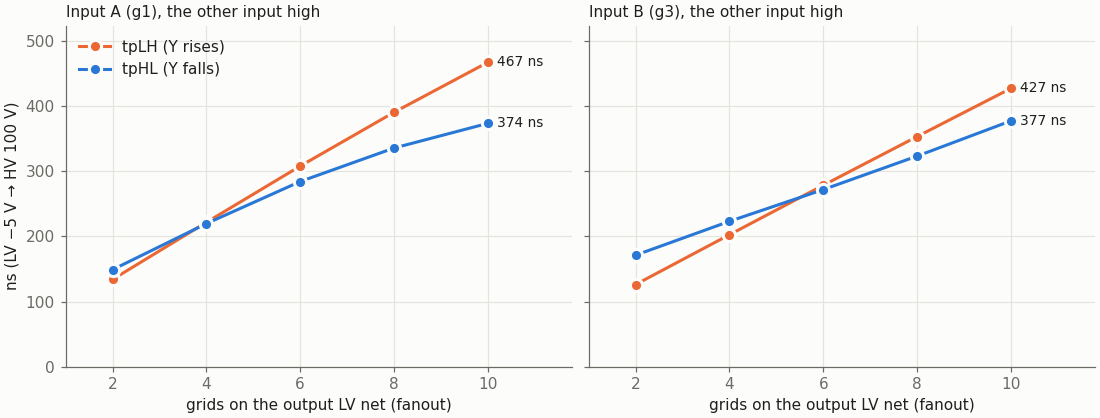
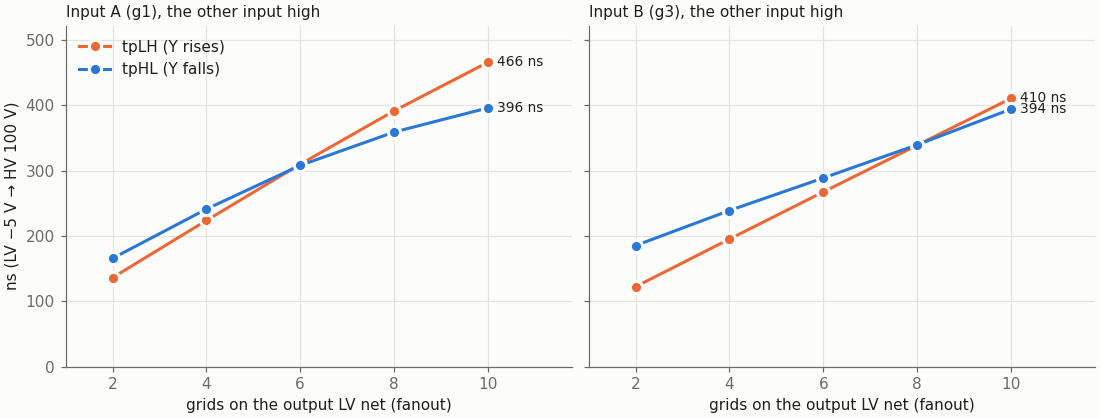
6Zh2B Cg3a = 1.8 pF measured: NAND2_J2 re-simulated, TRS v0.14 (REQ-MOD-004)
- Owner measured 1.8 pF anode to g3 on a 6Zh2B-V; model nominal was the
  6AS6 value 1.6 pF.
- Cell and divider values unchanged: C1 6.8 pF per g3 grid and Cb 15 pF
  are again the best pair. Fanout 2..10: tpHL 166..396 ns, tpLH
  122..466 ns; KiCad matches the sweep to 1 %.
- Page tables, figures, sensitivity (1.6/2.0/2.5 pF) and datasheet page
  updated.

diff --git a/tools/kicad/gen_nand2_j2.py b/tools/kicad/gen_nand2_j2.py
@@ -215,7 +215,7 @@ cell.text("NAND2_J2: Y = ~(A & B). One 6Zh2B (6Ж2Б), dual-control pentode: A o
           "Inputs A, B: LV level (1 = +10 V, 0 = -20 V). Output Y: HV level on the plate (1 = +150 V, 0 = +50 V).\n"
           "Ra 15k, screen Rg2 15k from +150 V (Ug2 <= 96 V while conducting, 150 V cut off),\n"
           "Cb 15 pF holds g3 against the plate fall through Cg3a (Miller kick while B is high).\n"
-          "Simulated: Y = 145 V (1), 44...56 V (0); Ik <= 12.6 mA, Pg2 0.37 W; fanout 2/10: tpHL 171/377 ns, tpLH 134/467 ns.\n"
+          "Simulated: Y = 145 V (1), 44...56 V (0); Ik <= 12.6 mA, Pg2 0.37 W; fanout 2/10: tpHL 185/396 ns, tpLH 136/466 ns (Cg3a 1.8 pF, measured).\n"
           "Each HV net that drives grids needs one divider HV -> LV: 470k || C1 from the net to the LV net, 200k to -50 V,\n"
           "C1 = 3.9 pF per g1 grid + 6.8 pF per g3 grid on that net (see NAND2_J2_tb). Inputs only from such a divider.\n"
           "Unused input: tie it to the other input. Supplies: +150 V, -50 V (dividers only), heater 6.3 V 0.2 A on H1/H2.\n"

diff --git a/tools/spice/fit_6zh2b.py b/tools/spice/fit_6zh2b.py
@@ -76,11 +76,11 @@ SUB = """*----------------------------------------------------------------------
 * Assumptions (not on the sheets): the Ug2 dependence (only Ug2 = 120 V is
 * given; MU2 rests on the power-law fit, no contact potential); grid current
 * of g1 and g3 (diodes, RG1/RG3); the split of Cin/Cout and the g3
-* capacitances (CG3A from the 6AS6, the US dual-control pentode; CG3K, CG2K).
+* capacitances (CG3K, CG2K). CG3A = 1.8 pF measured by the owner on a 6Zh2B-V (2026-10-24).
 *--------------------------------------------------------------------------
 .SUBCKT 6Zh2B A G3 G2 K G1
 + PARAMS: {params}
-+ S0=0.3 S3=0.3 CG1K=3.0P CG1G2=1.9P CG1A=0.03P CG3A=1.6P CG3K=3.0P CAK=2.5P CG2K=2.0P
++ S0=0.3 S3=0.3 CG1K=3.0P CG1G2=1.9P CG1A=0.03P CG3A=1.8P CG3K=3.0P CAK=2.5P CG2K=2.0P
 + RG1=2000 RG3=5000
 BX  x  0 V={{V(G1,K) + V(G2,K)/MU2 + V(G3,K)/MU3 + V(A,K)/MUA}}
 RX  x  0 1G

diff --git a/doc/nand2_j2_6zh2b.md b/doc/nand2_j2_6zh2b.md
@@ -12,11 +12,12 @@ Cell page. REQ-MOD-005 (2И-НЕ board), REQ-MOD-012 (logic levels), REQ-MOD-004
 | Supplies | +150 V (plate through Ra, screen through Rg2); −50 V (dividers only); heater 6.3 V, 0.2 A |
 | Parts | Ra 15 kΩ, Rg2 15 kΩ, Cb 15 pF; per driven LV net a divider 470 kΩ ‖ C1 / 200 kΩ, C1 = 3.9 pF per g1 grid + 6.8 pF per g3 grid |
 | Output levels | Y = 145 V (1); 44 V (0), 38…52 V over MU2 ± 20 % |
-| Delay, fanout 2 … 10 | tpHL 149 … 377 ns, tpLH 126 … 467 ns (both inputs, see Fanout) |
-| Grid, worst transient | −26.5 V (limit −50 V) |
+| Delay, fanout 2 … 10 | tpHL 166 … 396 ns, tpLH 122 … 466 ns (both inputs, see Fanout) |
+| Grid, worst transient | −26.0 V (limit −50 V) |
+| Cg3a | 1.8 pF, measured by the owner on a 6Ж2Б-В |
 | Ik, Pa, Pg2, worst static | 12.6 mA, 0.33 W, 0.37 W (limits 14 mA, 0.9 W, 0.6 W) |
 
-The owner confirmed on 2026-10-24: A on g1, B on g3, both LV (+10 / −20 V), output HV (+150 / +50 V), one 6Zh2B, supplies +150 / −50 V, the screen fed through a dropping resistor Rg2 from +150 V (no new rail); and, after the first sweep, passive compensation of the g3 Miller effect (Cb in the cell, larger C1 for g3 grids) instead of a cathode follower.
+The owner confirmed on 2026-10-24: A on g1, B on g3, both LV (+10 / −20 V), output HV (+150 / +50 V), one 6Zh2B, supplies +150 / −50 V, the screen fed through a dropping resistor Rg2 from +150 V (no new rail); and, after the first sweep, passive compensation of the g3 Miller effect (Cb in the cell, larger C1 for g3 grids) instead of a cathode follower. The owner then measured Cg3a = 1.8 pF on a 6Ж2Б-В (2026-10-24); all figures on this page use that value.
 
 ## Logic levels
 
@@ -69,7 +70,7 @@ VOL ≈ 50 V needs Ia ≈ 100 V / Ra. With Ra = 10k that is 10 mA of plate curre
 
 This is the trap specific to an AND-type cell. In NOR2_N16, an input held at "1" means the output is already low, so no other input can make a large plate swing while a grid sits clamped at "1". In this NAND it is the normal case: B holds g3 at "1", and A switches the tube on. The plate falls by 95 V and pulls g3 down through Cg3a. The divider (140 kΩ) can supply only about 0.07 mA to restore g3, and g3 out of its clamp cuts the plate current, so the plate falls as a Miller integrator at about 0.07 mA / Cg3a ≈ 40 V/µs.
 
-Without compensation (C1 = 3.9 pF per grid on every net, no Cb) the A↑ → Y↓ arc takes 480 ns at fanout 2 with Cg3a = 1.6 pF and 890 ns with 2.5 pF, whatever the fanout. g1 has no such problem: Cg1a ≤ 0.03 pF.
+Without compensation (C1 = 3.9 pF per grid on every net, no Cb) the A↑ → Y↓ arc takes 577 ns at fanout 2 and 670 ns at fanout 10 with the measured Cg3a = 1.8 pF (890 ns with 2.5 pF): it hardly depends on the fanout. g1 has no such problem: Cg1a ≤ 0.03 pF.
 
 The fix holds g3 with capacitance:
 
@@ -80,30 +81,31 @@ Bounds at fanout 4 (`tools/spice/nand2_sweep.py`; VOL is the worst value 2 µs a
 
 | C1 per g3 grid (Cb 15 pF) | Lowest grid | VOL after 2 µs | tpHL A / B | tpLH A / B | Verdict |
 |---|---|---|---|---|---|
-| 3.9 pF | −23.5 V | 86 V | 196 / 1009 ns | 73 / 170 ns | under-compensated, B crawls |
-| 4.7 pF | −24.0 V | 71 V | 202 / 566 ns | 129 / 180 ns | under-compensated |
-| 5.6 pF | −25.0 V | 55 V | 210 / 309 ns | 183 / 191 ns | works, near the cliff above |
-| **6.8 pF** | **−26.3 V** | **54 V** | **220 / 223 ns** | **222 / 203 ns** | **chosen** |
-| 8.2 pF | −29.5 V | 54 V | 229 / 190 ns | 237 / 216 ns | slower rise |
-| 10 pF | −33.0 V | 54 V | 239 / 175 ns | 255 / 234 ns | slower rise |
-| 12 pF | −36.7 V | 54 V | 248 / 168 ns | 275 / 252 ns | slower rise, deeper kick |
+| 3.9 pF | −23.3 V | 90 V | 219 / 1087 ns | 57 / 164 ns | under-compensated, B crawls |
+| 4.7 pF | −23.7 V | 76 V | 224 / 670 ns | 116 / 173 ns | under-compensated |
+| 5.6 pF | −24.5 V | 60 V | 232 / 344 ns | 172 / 183 ns | B still slow |
+| **6.8 pF** | **−25.9 V** | **58 V** | **241 / 239 ns** | **224 / 195 ns** | **chosen**: arcs balanced |
+| 8.2 pF | −28.4 V | 58 V | 250 / 200 ns | 240 / 208 ns | slower rise |
+| 10 pF | −31.9 V | 58 V | 259 / 182 ns | 258 / 225 ns | slower rise |
+| 12 pF | −36.0 V | 57 V | 268 / 174 ns | 278 / 243 ns | slower rise, deeper kick |
 
 | Cb (C1 6.8 pF per g3 grid) | Lowest grid | VOL after 2 µs | tpHL A / B | tpLH A / B | Verdict |
 |---|---|---|---|---|---|
-| none | −59.7 V | 55 V | 431 / 92 ns | 169 / 159 ns | g3 below −50 V; slow A arc |
-| 6.8 pF | −34.5 V | 55 V | 281 / 136 ns | 199 / 184 ns | — |
-| 10 pF | −29.8 V | 55 V | 247 / 162 ns | 210 / 192 ns | — |
-| **15 pF** | **−26.3 V** | **54 V** | **220 / 223 ns** | **222 / 203 ns** | **chosen**: arcs balanced |
-| 22 pF | −24.4 V | 67 V | 202 / 432 ns | 166 / 213 ns | over-loads g3, B slow |
+| none | −57.4 V | 60 V | 513 / 98 ns | 175 / 152 ns | g3 below −50 V; slow A arc |
+| 6.8 pF | −33.7 V | 59 V | 329 / 144 ns | 204 / 177 ns | — |
+| 10 pF | −28.8 V | 59 V | 281 / 171 ns | 214 / 185 ns | — |
+| **15 pF** | **−25.9 V** | **58 V** | **241 / 239 ns** | **224 / 195 ns** | **chosen**: arcs balanced |
+| 18 pF | −25.1 V | 58 V | 228 / 307 ns | 205 / 201 ns | B slower |
+| 22 pF | −24.0 V | 71 V | 216 / 481 ns | 153 / 206 ns | over-loads g3, B slow |
 
 | C1 per g1 grid | Lowest grid | tpHL A / B | tpLH A / B |
 |---|---|---|---|
-| 2.7 pF | −21.3 V | 274 / 215 ns | 208 / 191 ns |
-| 3.3 pF | −22.3 V | 236 / 219 ns | 215 / 197 ns |
-| **3.9 pF** (as in NOR2_N16) | **−26.3 V** | **220 / 223 ns** | **222 / 203 ns** |
-| 4.7 pF | −32.5 V | 210 / 228 ns | 230 / 210 ns |
+| 2.7 pF | −21.3 V | 300 / 230 ns | 211 / 184 ns |
+| 3.3 pF | −22.3 V | 258 / 234 ns | 217 / 190 ns |
+| **3.9 pF** (as in NOR2_N16) | **−25.9 V** | **241 / 239 ns** | **224 / 195 ns** |
+| 4.7 pF | −31.7 V | 231 / 244 ns | 231 / 201 ns |
 
-The g1 grid keeps the NOR rule of 3.9 pF per grid, so a net that drives NOR and NAND g1 inputs uses one rule. A larger search over Ra (12–18k), Rg2 (10–18k), C1 and Cb (192 combinations, fanout 4 and 6, Cg3a 1.6 and 2.5 pF) found nothing more than about 15 % faster within the limits.
+The g1 grid keeps the NOR rule of 3.9 pF per grid, so a net that drives NOR and NAND g1 inputs uses one rule. A larger search over Ra (12–18k), Rg2 (10–18k), C1 and Cb (192 combinations, fanout 4 and 6, Cg3a 1.6 and 2.5 pF, before the measurement) found nothing more than about 15 % faster within the limits; with the measured 1.8 pF the chosen pair is again the best of C1 5.6–8.2 pF × Cb 10–22 pF at fanout 4 and 10.
 
 ### The HV → LV divider
 
@@ -133,22 +135,22 @@ A g3 input therefore costs 1.7 times the divider capacitance of a g1 input. For 
 | .meas | KiCad | Plain SPICE (`nand2_sweep.py --kicad`) |
 |---|---|---|
 | Y, states 00 / 10 | 145.4 / 145.4 V | 145.4 / 145.4 V |
-| Y, state 11 after B↑ (y2) | 48.0 V | 48.0 V |
-| Y, state 11 after A↑ (y5), 2 µs after the edge | 58.1 V | 58.1 V |
-| Y, state 01 after A↓ (y3) | 138.9 V | 139.1 V |
-| tphl_b (B↑, A high) | 377 ns | 377 ns |
-| tplh_a (A↓, B high) | 468 ns | 467 ns |
-| tphl_a (A↑, B high) | 425 ns | 425 ns |
-| tplh_b (B↓, A high) | 415 ns | 413 ns |
-| lowest IN_A / IN_B / OUT_LV | −26.5 / −22.0 / −21.5 V | −26.5 / −22.0 / −21.5 V |
+| Y, state 11 after B↑ (y2) | 49.5 V | 49.5 V |
+| Y, state 11 after A↑ (y5), 2 µs after the edge | 61.9 V | 61.9 V |
+| Y, state 01 after A↓ (y3) | 138.8 V | 138.9 V |
+| tphl_b (B↑, A high) | 394 ns | 394 ns |
+| tplh_a (A↓, B high) | 467 ns | 466 ns |
+| tphl_a (A↑, B high) | 456 ns | 456 ns |
+| tplh_b (B↓, A high) | 396 ns | 393 ns |
+| lowest IN_A / IN_B / OUT_LV | −26.0 / −21.4 / −20.5 V | −26.0 / −21.5 / −20.4 V |
 
-The KiCad netlist and the sweep agree to 0.5 %.
+The KiCad netlist and the sweep agree to 1 %.
 
 ![waveforms](img/nand2_j2_tran.png)
 
 What the waveforms show:
 
-- **At 10 µs (01 → 11, A rises while B is high):** IN_B dips by about 1.5 V as the plate falls (the Miller kick that Cb absorbs), and OUT falls fast to about 90 V and then slowly. It crosses 100 V after 425 ns but is still at 58 V after 2 µs. The next stage sees it as a solid "0" once it is below its VIL of 91 V.
+- **At 10 µs (01 → 11, A rises while B is high):** IN_B dips by about 1.5 V as the plate falls (the Miller kick that Cb absorbs), and OUT falls fast to about 90 V and then slowly. It crosses 100 V after 456 ns but is still at 62 V after 2 µs. The next stage sees it as a solid "0" once it is below its VIL of 91 V.
 - **At 4 µs (10 → 11, B rises):** the fall is faster; g3 is the moving grid and C1 of its divider supplies the charge.
 - **Rising edges** are RC edges of Ra and the output net: 0.47 µs to 100 V at fanout 10.
 - **Grids** stay above −27 V on every edge.
@@ -181,15 +183,15 @@ These are within 1–2 V of NOR2_N16 (VIL −7.6 V, 92 V), so the two cells can 
 
 | Grids on the output LV net | VOH | tpHL A / B | tpLH A / B | LV → LV, gate + divider (fall / rise, via A) |
 |---|---|---|---|---|
-| 2 | 145.4 V | 149 / 171 ns | 134 / 126 ns | 102 / 136 ns |
-| 4 | 145.0 V | 220 / 223 ns | 222 / 203 ns | 166 / 235 ns |
-| 6 | 143.9 V | 284 / 272 ns | 308 / 279 ns | 233 / 334 ns |
-| 8 | 141.8 V | 336 / 323 ns | 391 / 353 ns | 280 / 430 ns |
-| 10 | 139.1 V | 374 / 377 ns | 467 / 427 ns | 307 / 521 ns |
+| 2 | 145.3 V | 166 / 185 ns | 136 / 122 ns | 124 / 133 ns |
+| 4 | 145.0 V | 241 / 239 ns | 224 / 195 ns | 197 / 225 ns |
+| 6 | 143.9 V | 308 / 289 ns | 310 / 267 ns | 273 / 319 ns |
+| 8 | 141.7 V | 359 / 339 ns | 391 / 339 ns | 320 / 408 ns |
+| 10 | 138.9 V | 396 / 394 ns | 466 / 410 ns | 348 / 491 ns |
 
 Half the load grids are g3 inputs (load gates with g1 and g3 tied); a net with only g1 loads is faster, one with only g3 loads slower. VOH at fanout 8–10 is read 2 µs after the rising edge and has not quite settled.
 
-- **Clock budget:** at the nominal 1 MHz of the RTL, one gate plus divider exceeds a third of the period (333 ns) from fanout 6 up, so **max_fanout 4 grids** (6 at most) for such paths; NOR2_N16 reaches the same delay at about fanout 6. At the owner's target of 250 kHz (4 µs, OPEN-014 [v0.11]) the third of the period is 1.33 µs, and the cell meets it at fanout 10 even with Cg3a = 2.5 pF.
+- **Clock budget:** at the nominal 1 MHz of the RTL, one gate plus divider comes to 310–320 ns at fanout 6, close to a third of the period (333 ns), and exceeds it from fanout 8, so **max_fanout 4 grids** (6 at most) for such paths; NOR2_N16 reaches the same delay at about fanout 6. At the owner's target of 250 kHz (4 µs, OPEN-014 [v0.11]) the third of the period is 1.33 µs, and the cell meets it at fanout 10 even with Cg3a = 2.5 pF.
 - **Hazard 10 → 01** (A falls while B rises, in the sweep sequence): Y stays above 139.8 V at every fanout, no glitch.
 
 ### Sensitivity
@@ -198,13 +200,14 @@ Fanout 4 / 10, the chosen cell:
 
 | Model | VOL (worst after 2 µs) | tpHL A / B | tpLH A / B | Lowest grid |
 |---|---|---|---|---|
-| nominal (Cg3a 1.6 pF) | 54 / 56 V | 220 / 223, 374 / 377 ns | 222 / 203, 467 / 427 ns | −26.5 V |
-| Cg3a 1.0 pF | 45 / 48 V | 169 / 184, 316 / 331 ns | 212 / 214, 462 / 460 ns | −30.0 V |
+| **nominal (Cg3a 1.8 pF, measured)** | 58 / 60 V | 241 / 239, 396 / 394 ns | 224 / 195, 466 / 410 ns | −26.0 V |
+| Cg3a 1.6 pF | 54 / 56 V | 220 / 223, 374 / 377 ns | 222 / 203, 467 / 427 ns | −26.5 V |
+| Cg3a 2.0 pF | 62 / 63 V | 266 / 256, 420 / 411 ns | 222 / 188, 459 / 394 ns | −25.5 V |
 | Cg3a 2.5 pF | 70 / 70 V | 349 / 307, 494 / 470 ns | 200 / 169, 411 / 355 ns | −24.4 V |
-| MU2 −20 % | 49 / 50 V | 191 / 210, 318 / 339 ns | 243 / 224, 524 / 480 ns | −26.6 V |
-| MU2 +20 % | 60 / 63 V | 250 / 237, 437 / 425 ns | 196 / 181, 405 / 374 ns | −27.1 V |
+| MU2 −20 % | 53 / 54 V | 208 / 225, 336 / 355 ns | 244 / 217, 520 / 463 ns | −26.2 V |
+| MU2 +20 % | 64 / 66 V | 276 / 253, 465 / 442 ns | 198 / 173, 403 / 356 ns | −26.0 V |
 
-Cg3a matters most. At 2.5 pF the slow tail after A↑ leaves Y at 70 V after 2 µs, still 21 V below VIL.
+Cg3a matters most: each 0.1 pF adds about 10 ns to the A↑ arc. At 2.5 pF the slow tail after A↑ leaves Y at 70 V after 2 µs, still 21 V below VIL. The rows at 1.6–2.5 pF cover the spread to expect between tubes until more of them are measured.
 
 ## Datasheet limits
 
@@ -217,7 +220,7 @@ Sources: `doc/6zh2b_datasheet.md` (handbook page and 6Ж2Б-В sheet).
 | Pa | 0.9 W | 0.33 W |
 | Pg2 | 0.6 W (6Ж2Б-В: 0.7 W) | 0.37 W |
 | Ik | 14 mA | 12.6 mA (MU2 −20 %), 11.3 mA nominal |
-| Ug1 | ≥ −50 V | −26.5 V transient, −21 V static |
+| Ug1 | ≥ −50 V | −26.0 V transient, −21 V static |
 | Ug3 | not given | −24 V transient, −21 V static |
 | Grid-circuit resistance | 1 MΩ | 140 kΩ (470k ‖ 200k) |
 
@@ -236,8 +239,8 @@ Power per gate:
 | Ra 12k / Rg2 12k | static search: Ik and Pg2 at the limits at MU2 −20 % | rejected |
 | Ra 18k / Rg2 18k | VOL 38–49 V, about 30 % slower rise | rejected: slow |
 | Rg2 12k (Ra 15k) | worst arc ~50 ns faster, Ik 14.1 mA at MU2 −20 % | rejected: Ik |
-| Cathode resistor Rk 220 / 470 Ω (no compensation, fanout 4) | A↑ → Y↓ 522 → 719 → 1006 ns, VOL after 2 µs 55 → 68 → 81 V: the cathode rises with the current and takes g3 further below its clamp | rejected |
-| No compensation (C1 3.9 pF everywhere, no Cb) | A↑ → Y↓ 480–950 ns at any fanout | rejected: too slow for 1 MHz unless B is static |
+| Cathode resistor Rk 220 / 470 Ω (no compensation, fanout 4) | A↑ → Y↓ 612 → 826 → 1138 ns, VOL after 2 µs 61 → 73 → 85 V: the cathode rises with the current and takes g3 further below its clamp | rejected |
+| No compensation (C1 3.9 pF everywhere, no Cb) | A↑ → Y↓ 577–670 ns at fanout 2–10 (Cg3a 1.8 pF) | rejected: too slow for 1 MHz unless B is static |
 | Cb only, C1 unchanged | B input under-compensated: B↑ → Y↓ 0.3–3 µs | rejected |
 | Cathode follower (half 6N16B) driving g3 nets | fast, +0.5 tube per driven net | owner chose the passive fix (REQ-MOD-009) |
 
@@ -291,11 +294,11 @@ Fit residuals: rms 0.1–0.45 mA on Рис. 215 and 0.2–0.6 mA on Рис. 216.
 
 - **Ug2 dependence.** The sheets give only Ug2 = 120 V. MU2 comes from the cut-off through the power law, with no contact potential. The cell feeds the screen through Rg2, so its operating point depends on this, and the cell is checked with MU2 ± 20 %.
 - **Grid currents.** g1 and g3 conduct through a diode (IS = 1 nA) behind RG1 = 2 kΩ and RG3 = 5 kΩ, like the 6N16B model. The grid current is not taken from the space current.
-- **Capacitances.** The sheet gives Cin = 4.9 pF, Cout = 4.1 pF and Cg1a ≤ 0.03 pF. The split is assumed: Cg1k 3.0, Cg1g2 1.9, Cg1a 0.03 pF; Cak 2.5 pF; Cg2k 2.0 pF (screen node). **Cg3a = 1.6 pF** is the value the RCA handbook gives for the 6AS6, the US dual-control pentode of the same class ([RCA Tube Handbook, receiving tubes, part 2](https://worldradiohistory.com/BOOKSHELF-ARH/Technology/RCA-Books/RCA-Tube-Handbook-Receiving-Tube-Section-Part-2.pdf)); Cg3k 3.0 pF. The 6Zh2B sheets do not give any g3 capacitance. Cg3a sets the slowest arc of the cell, so the cell is checked with Cg3a = 1.0 and 2.5 pF (see Sensitivity), and **Cg3a has to be measured on a real tube** (an LCR meter between leads 1 and 2, other leads grounded).
+- **Capacitances.** The sheet gives Cin = 4.9 pF, Cout = 4.1 pF and Cg1a ≤ 0.03 pF. The split is assumed: Cg1k 3.0, Cg1g2 1.9, Cg1a 0.03 pF; Cak 2.5 pF; Cg2k 2.0 pF (screen node). **Cg3a = 1.8 pF** was measured by the owner on a 6Ж2Б-В (2026-10-24); the 6Zh2B sheets do not give any g3 capacitance. Before the measurement the model used 1.6 pF, the RCA handbook value for the 6AS6, the US dual-control pentode of the same class ([RCA Tube Handbook, receiving tubes, part 2](https://worldradiohistory.com/BOOKSHELF-ARH/Technology/RCA-Books/RCA-Tube-Handbook-Receiving-Tube-Section-Part-2.pdf)). Cg3k 3.0 pF stays assumed. Cg3a sets the slowest arc of the cell, so the cell is also checked at 1.6, 2.0 and 2.5 pF (see Sensitivity).
 
 ## Open points
 
-- **Cg3a is not known for the 6Zh2B.** The slowest arc depends on it (Sensitivity). Measure it on real tubes, then re-run `nand2_sweep.py` with `M="CG3A=…"` and re-check Cb and C1 per g3 grid.
+- **Cg3a spread.** 1.8 pF is one tube (6Ж2Б-В), measured cold. Measure a few more, plain 6Ж2Б too; if the spread goes past 2.5 pF, re-run `nand2_sweep.py` with `M="CG3A=…"` and re-check Cb and C1 per g3 grid.
 - **Screen at 150 V while cut off.** Allowed by the 6Ж2Б-В sheet (250 V cut off), not stated by the handbook (125 V). If the tubes in hand are plain 6Ж2Б, either accept it or split Rg2 into a divider (e.g. 15k to +150 V and 75k to GND, Thevenin 125 V / 12.5k: about 0.25 W more per gate). Owner's decision.
 - **Ug2 dependence of the model** is extrapolated (MU2); measure Ia, Ig2 at Ug2 = 70–100 V.
 - **g3 grid current** is modelled as a diode to the cathode; on a real suppressor it is interception of the passing current. It sets the clamp level of g3 and with it the Miller margin.

diff --git a/TRS.md b/TRS.md
@@ -1,6 +1,6 @@
 ---
-title: DekatronPC — Требования v0.13
-version: "0.13"
+title: DekatronPC — Требования v0.14
+version: "0.14"
 date: 2026-10-24
 status: draft
 supersedes: rtl/DekatronPC/DekatronPC_TRS_v0_7.md (с черновиком v0.8 golden model) и DekatronPC_TRS_v0_8.md
@@ -12,7 +12,7 @@ tags:
   - checklist
 ---
 
-# DekatronPC — Требования v0.13
+# DekatronPC — Требования v0.14
 
 ## 0. Назначение документа
 
@@ -37,6 +37,10 @@ tags:
 ---
 
 ## 1. История изменений
+
+### v0.14 — измерена Cg3a у 6Ж2Б
+
+Владелец, 2026-10-24: ёмкость анод — третья сетка у 6Ж2Б-В — **1,8 пФ** (в v0.13 по аналогу 6AS6 было 1,6 пФ). Модель `sch/libs/6Zh2B.sub` и все расчёты `NAND2_J2` пересчитаны: номиналы ячейки и делителей не меняются (C1 6,8 пФ на сетку g3 и Cb 15 пФ снова лучшие), tpHL 166…396 нс, tpLH 122…466 нс на 2…10 сетках, сетки не ниже −26 В; KiCad и простой SPICE совпадают до 1 %. Остаётся измерить разброс Cg3a на нескольких лампах (REQ-MOD-004). `doc/nand2_j2_6zh2b.md`.
 
 ### v0.13 — ячейка 2И-НЕ NAND2_J2 на 6Ж2Б и модель 6Ж2Б
 
@@ -1071,7 +1075,7 @@ TRS v0.1 (`Dekatron_Model_TRS_v0_1.md`) задаёт **новую целевую
 | REQ-MOD-001 | Финальный разъём модуля логики: edge connector 2×36. | Done | Принято, согласуется с PDF (модуль 140×140мм, разъём 3×36 либо ГРПМШ-31 — уточнено до 2×36 edge connector). |
 | REQ-MOD-002 | ГРПМШ-31 может использоваться только в специальных местах, если потребуется. | Done | Не основной разъём. |
 | REQ-MOD-003 | Библиотека логических элементов близка к финальной, но не финальна. | Done | Текущий список: BUF_N16, NOT_N16, OR2_N16, OR4_N16, NOR2_N16, NOR4_N16, AOI21_J2N16, AOI22_J2, NAND_J2, LATCH_J2N16, DFF_J2N16. |
-| REQ-MOD-004 | Для каждой ячейки должны быть измерены задержки, fan-out и потребление. | TODO | Критично для liberty. **[v0.12]** `NOR2_N16` посчитана в SPICE (не измерена): tpHL 73…90 нс, tpLH 105…290 нс на 2…10 сетках; уровни от fanout не зависят (один делитель на цепь); 9,5–11 мА от +150 В при низком выходе, накал 2,5 Вт (`doc/nor2_n16_6n16b.md`). **[v0.13]** `NAND2_J2` (одна 6Ж2Б) посчитана в SPICE: tpHL 149…377 нс, tpLH 126…467 нс на 2…10 сетках; 11,3 мА от +150 В при низком выходе, 5,4 мА при AB = 10, накал 1,26 Вт; самая медленная дуга A↑→Y↓ зависит от неизмеренной Cg3a (`doc/nand2_j2_6zh2b.md`). |
+| REQ-MOD-004 | Для каждой ячейки должны быть измерены задержки, fan-out и потребление. | TODO | Критично для liberty. **[v0.12]** `NOR2_N16` посчитана в SPICE (не измерена): tpHL 73…90 нс, tpLH 105…290 нс на 2…10 сетках; уровни от fanout не зависят (один делитель на цепь); 9,5–11 мА от +150 В при низком выходе, накал 2,5 Вт (`doc/nor2_n16_6n16b.md`). **[v0.13]** `NAND2_J2` (одна 6Ж2Б) посчитана в SPICE: ~~tpHL 149…377 нс, tpLH 126…467 нс~~ **[v0.14]** при измеренной Cg3a = 1,8 пФ tpHL 166…396 нс, tpLH 122…466 нс на 2…10 сетках; 11,3 мА от +150 В при низком выходе, 5,4 мА при AB = 10, накал 1,26 Вт; самая медленная дуга A↑→Y↓ зависит от Cg3a (**[v0.14]** измерена у одной 6Ж2Б-В: 1,8 пФ; нужен разброс) (`doc/nand2_j2_6zh2b.md`). |
 | REQ-MOD-005 | Должны быть разработаны платы: ИЛИ-НЕ, 2И-НЕ/ИЛИ-И-НЕ, D-триггер, управление декатроном, плата декатрона, усилители записи/чтения. | In Progress **[v0.13]** | По roadmap. **[v0.12]** Ячейка ИЛИ-НЕ `NOR2_N16` (одна 6Н16Б, входы НВ, выход ВВ) — `sch/logic/NOR2_N16.kicad_sch` с тестбенчем `NOR2_N16_tb`; платы модуля ещё нет. `doc/nor2_n16_6n16b.md`. **[v0.13]** Ячейка 2И-НЕ `NAND2_J2` (одна 6Ж2Б: A — g1, B — g3; Ra 15k, Rg2 15k, Cb 15 пФ) — `sch/logic/NAND2_J2.kicad_sch` с тестбенчем `NAND2_J2_tb`; делитель цепи C1 = 3,9 пФ на сетку g1 + 6,8 пФ на сетку g3. `doc/nand2_j2_6zh2b.md`. |
 | REQ-MOD-006 | Схема сброса декатрона должна быть вынесена за пределы декатронной платы до выбора финального варианта. | Done | Есть в материалах (PDF §5.1). |
 | REQ-MOD-007 | Нужно определить вариант сброса: отрицательный импульс на катод или отключение остальных катодов. | TODO | Экспериментально. **[v0.3]** TRS v0.1 уже де-факто выбрала подход «отключение остальных катодов» (изоляция главных катодов при записи/сбросе, §3.4) как модель поведения — но это выбор для RTL-модели, не подтверждённый экспериментом на реальном А110. Физический выбор варианта остаётся открытым. |
@@ -1241,7 +1245,7 @@ P&R разрабатывается отдельно, но из этого док
 - [ ] Реализовать генератор до 1 МГц.
 - [x] Внешний генератор допускается для частот выше.
 - [x] Фронты: цель ≤50 нс, идеально ~10 нс.
-- [ ] Сделать пилотный модуль. **[v0.12]** Ячейка `NOR2_N16` нарисована в KiCad и просчитана в SPICE (`doc/nor2_n16_6n16b.md`); платы нет. **[v0.13]** Ячейка `NAND2_J2` на 6Ж2Б — так же (`doc/nand2_j2_6zh2b.md`); для неё измерить Cg3a у реальных ламп.
+- [ ] Сделать пилотный модуль. **[v0.12]** Ячейка `NOR2_N16` нарисована в KiCad и просчитана в SPICE (`doc/nor2_n16_6n16b.md`); платы нет. **[v0.13]** Ячейка `NAND2_J2` на 6Ж2Б — так же (`doc/nand2_j2_6zh2b.md`); для неё измерить Cg3a у реальных ламп. **[v0.14]** Одна 6Ж2Б-В: 1,8 пФ; измерить ещё несколько ламп.
 - [ ] Измерить задержки вручную осциллографом.
 - [ ] Сформировать первичный liberty.
 - [x] Зафиксирован edge connector 2×36.

diff --git a/history.md b/history.md
@@ -66,3 +66,4 @@
 - Wrote doc/digitizing_reference_sheets.md, step-by-step instructions for a small local model to digitize the whole tube reference book (rules, setup, tables, per-plot workflow, cross-checks, JSON output, stop conditions, traps), with the general tool tools/digitize/digitize.py (render, crop, grid, scan, order, band, fit, overlay, plot; log axes), tested on the 6N16B sheet; noted on the 6N16B page that the sheet's two curve families differ by up to 7 %.
 - Digitized the 6Zh2B (6Ж2Б) handbook page and the 6Ж2Б-В ТУ label sheet into doc/6zh2b_datasheet.md and doc/data/6zh2b_datasheet.json (tables of both sheets, Ia/Ig2 = f(Ua) and f(Ug3) checked by overlay, self-bias and S cross-checks pass); the two sheets number the leads differently; added `deskew` and `fit --basis median` to tools/digitize/digitize.py and the low-resolution, skew and curve-on-grid-line steps to doc/digitizing_reference_sheets.md.
 - Designed the NAND2_J2 cell (2И-НЕ) on one 6Zh2B by doc/cell_design_method.md: fitted a 6Zh2B SPICE model to the digitized sheet, found and compensated the g3 Miller kick (Cb 15 pF, C1 6.8 pF per g3 grid; owner chose passive), KiCad cell and testbench matching the plain-SPICE sweep, page doc/nand2_j2_6zh2b.md, TRS v0.13.
+- Owner measured Cg3a = 1.8 pF on a 6Zh2B-V; set it as the model nominal, re-ran the NAND2_J2 sweeps, KiCad testbench and figures (component values unchanged, tpHL 166–396 ns, tpLH 122–466 ns at fanout 2–10), TRS v0.14.

diff --git a/doc/6zh2b_datasheet.md b/doc/6zh2b_datasheet.md
@@ -56,6 +56,7 @@ End-of-life criteria for the 6Ж2Б-В:
 | input | 4.9 ± 0.85 pF | 4.05–5.75 pF |
 | output | 4.1 ± 1.0 pF | 3.1–5.1 pF |
 | grid 1 – plate (transfer) | ≤ 0.03 pF | ≤ 0.03 pF |
+| grid 3 – plate | not given | not given; **1.8 pF measured** by the owner on one 6Ж2Б-В, 2026-10-24 (cold tube) |
 | cathode – heater | ≤ 7 pF | ≤ 7 pF |
 
 ## Maximum and minimum ratings
